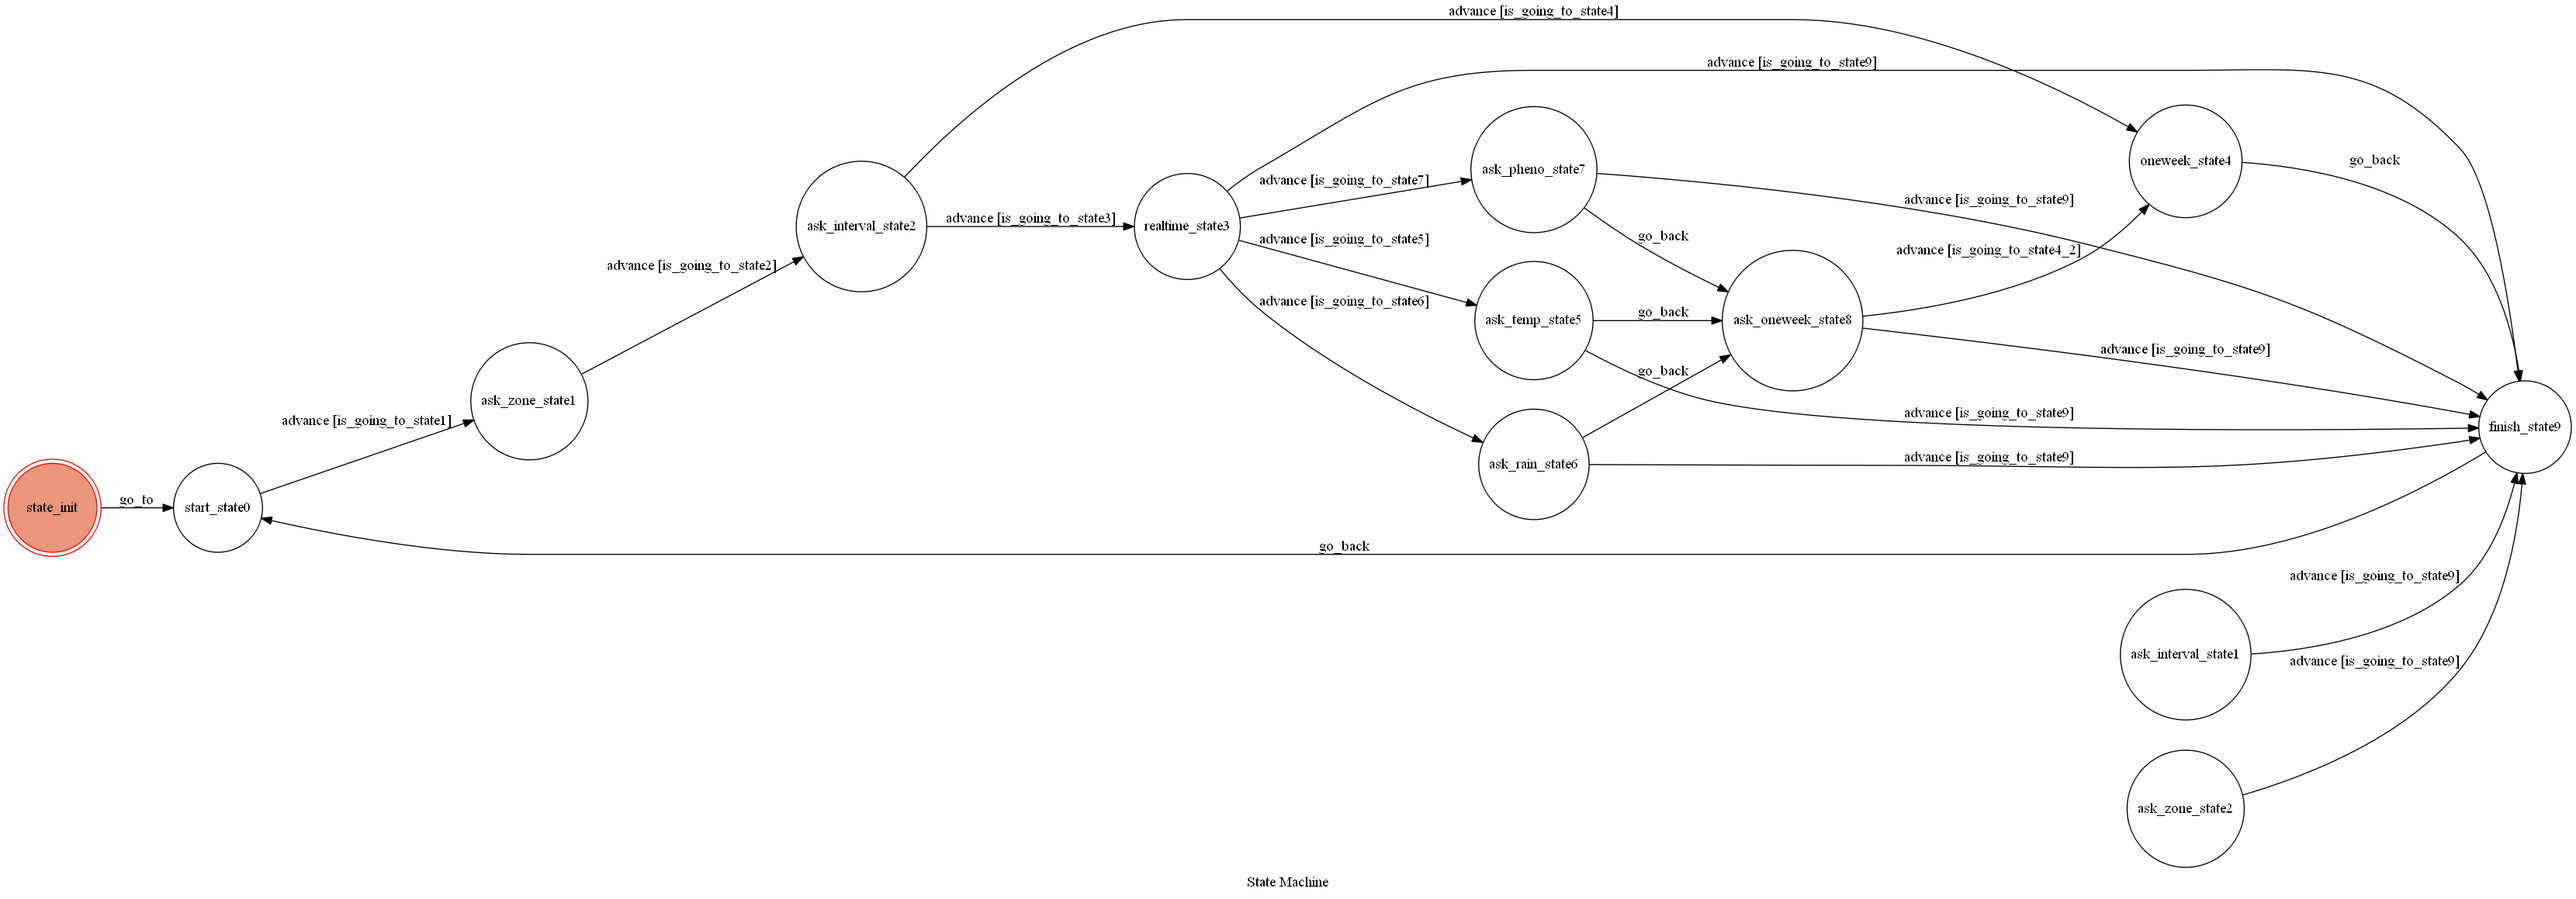
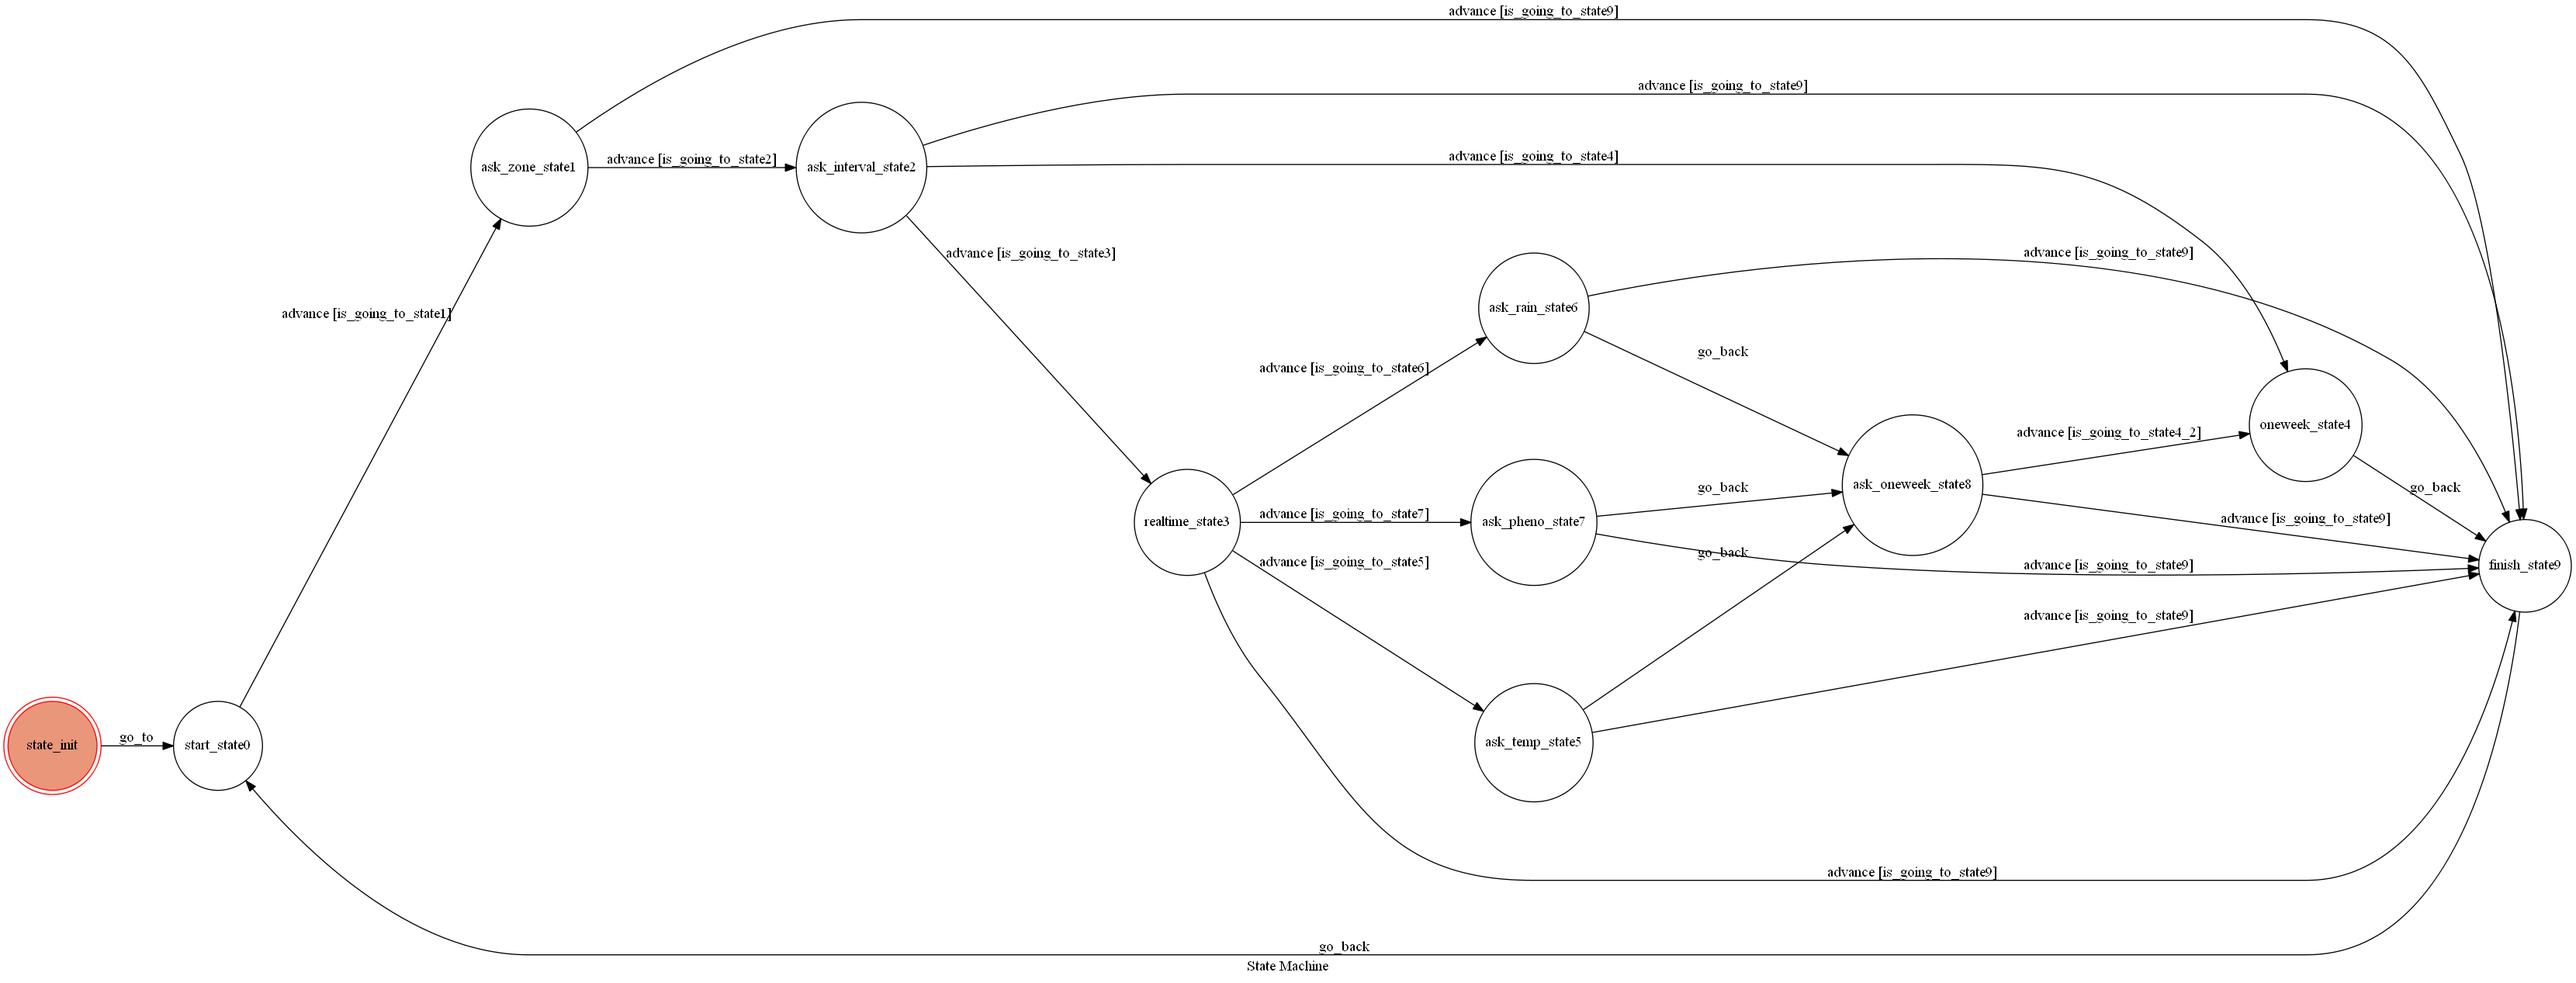
Modify type error
Correct ask_zone_state1 and ask_interval_state2.

diff --git a/states_config.py b/states_config.py
@@ -78,8 +78,8 @@ transitions=[
     {
         'trigger': 'advance',
         'source': [
-            'ask_interval_state1',
-            'ask_zone_state2',
+            'ask_zone_state1',
+            'ask_interval_state2',
             'realtime_state3',
             'ask_temp_state5',
             'ask_rain_state6',
